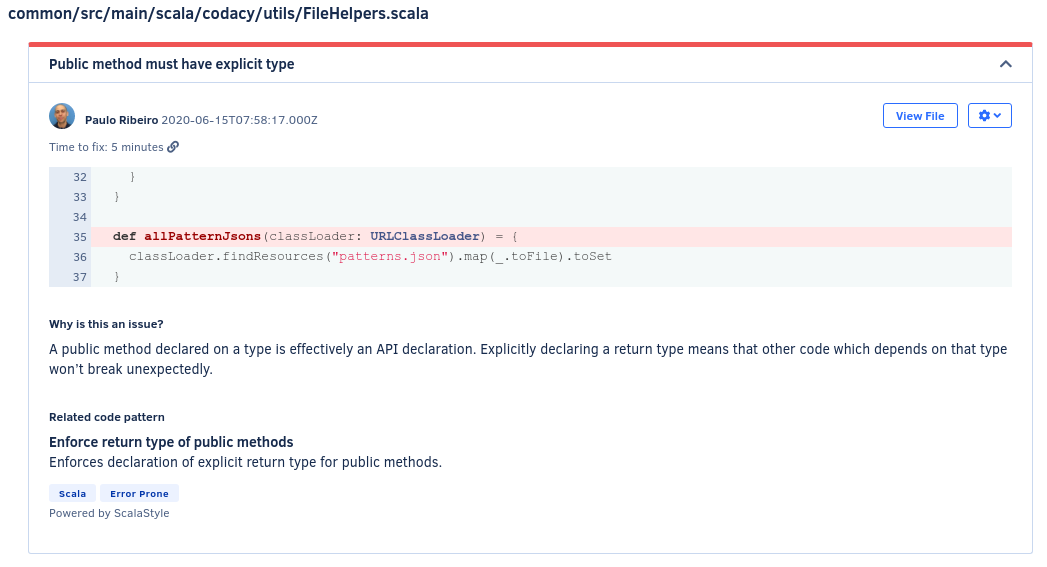
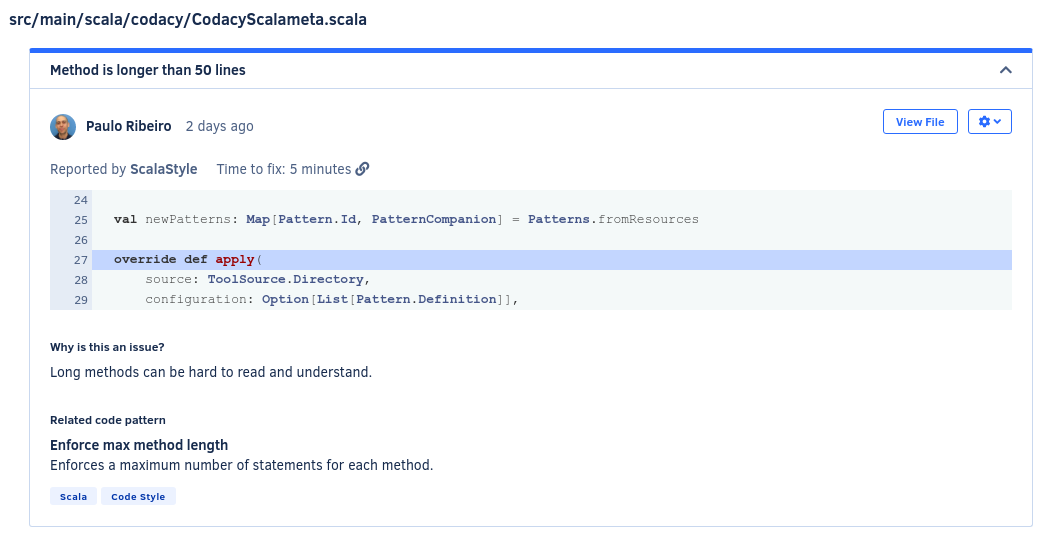
feature: Update issue details with highlighted tool CY-3835 (#541)
* feature: Update screenshots that show the issue details

* feature: Describe in detail the information available for each issue

Includes a link to the list of supported tools, to help clarify that
the issues are reported by third-party tools and not directly by
Codacy.

diff --git a/docs/repositories/issues.md b/docs/repositories/issues.md
@@ -8,8 +8,10 @@ By default, the page lists the issues on the main branch of your repository but 
 
 Click the title of an issue to see the following information:
 
+-   The contributor and date of the commit that introduced the issue
+-   The [tool that reported the issue](../getting-started/supported-languages-and-tools.md) and the estimated time to fix it
 -   What's the issue and how to solve it
--   Details about the code pattern that detected the issue
+-   The programming language and category of the issue
 
 ![Issue details](images/issues-detail.png)
 
